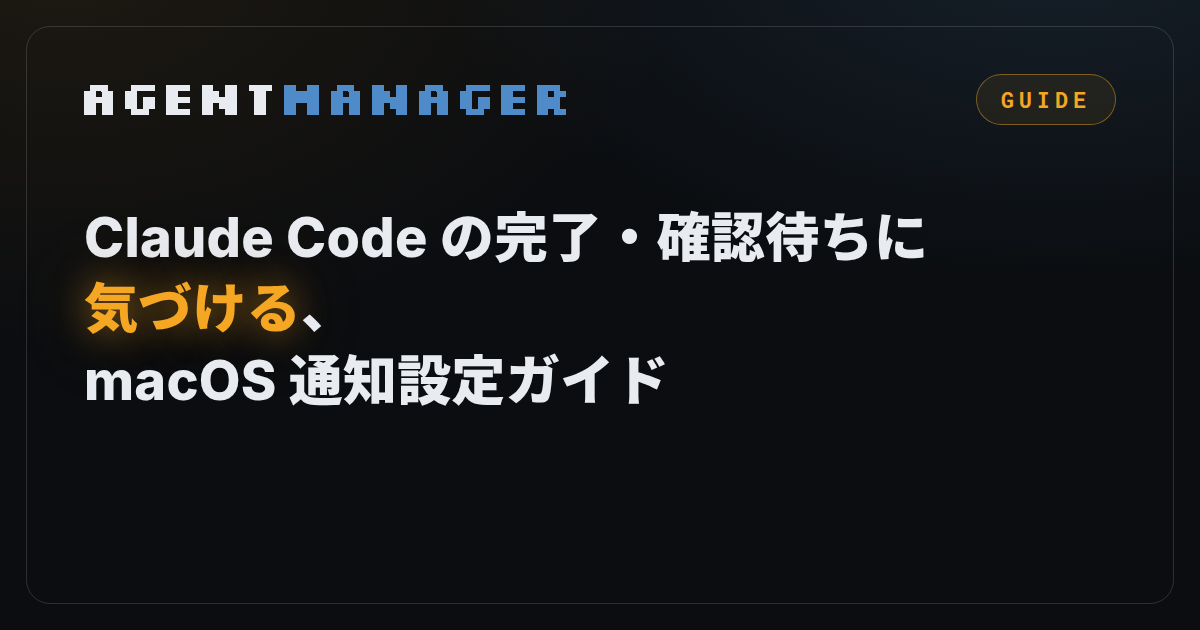
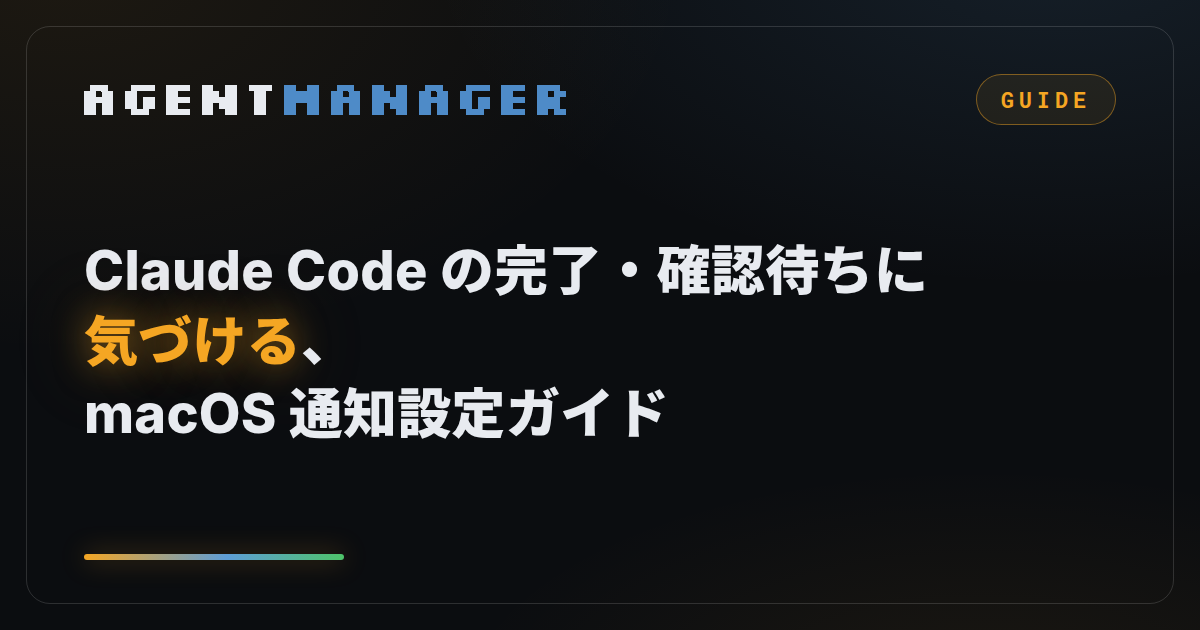
feat: OGP画像のタイトルを上下センター配置にし、下部にアクセントバーを追加
- タイトルをヘッダー行と下端の間で上下中央に配置 (.title-area)
- 下部にセッションランプ3色 (amber/sky/grass) のグラデーションバーと
  淡いアンバーの光を追加し、下側の余白の寂しさを解消
- 6枚を再生成

Claude-Session: https://claude.ai/code/session_013CzTDj4FuM4GGuY2hrSxaA

Changed region(s): [[0.0617, 0.3317, 0.7708, 0.6937], [0.0617, 0.8746, 0.2775, 0.9048]]

diff --git a/tools/og-guide-template.html b/tools/og-guide-template.html
@@ -16,6 +16,7 @@
     background:
       radial-gradient(900px 500px at 88% -10%, rgba(94,158,214,.13), transparent 70%),
       radial-gradient(900px 560px at 5% -6%, rgba(245,166,35,.08), transparent 70%),
+      radial-gradient(760px 340px at 82% 112%, rgba(245,166,35,.07), transparent 70%),
       #0B0D10;
     font-family: 'Inter', 'Noto Sans JP', 'Hiragino Sans', sans-serif;
     color: #E8EBF0;
@@ -38,14 +39,24 @@
     background: rgba(245,166,35,.08);
   }
 
+  .title-area {
+    position: absolute; left: 0; right: 0; top: 90px; bottom: 40px;
+    display: flex; align-items: center;
+  }
   h1 {
-    position: absolute; left: 0; right: 0; top: 128px;
     font-weight: 800; font-size: {{TITLE_SIZE}}px; line-height: 1.32; letter-spacing: .005em;
   }
   :lang(ja) h1 { font-weight: 900; }
   h1 .accent {
     color: #F5A623;
     text-shadow: 0 0 34px rgba(245,166,35,.5), 0 0 80px rgba(245,166,35,.25);
+  }
+  /* 下部の装飾: セッションランプ3色 (amber/sky/grass) のアクセントバー */
+  .accent-bar {
+    position: absolute; left: 0; bottom: 0;
+    width: 260px; height: 6px; border-radius: 3px;
+    background: linear-gradient(90deg, #F5A623, #5E9ED6 55%, #4EC46A);
+    box-shadow: 0 0 26px rgba(245,166,35,.4);
   }
 
 </style>
@@ -57,7 +68,8 @@
       <img class="logo" src="../logo-dark.svg" alt="">
       <div class="kind">GUIDE</div>
     </div>
-    <h1>{{TITLE_HTML}}</h1>
+    <div class="title-area"><h1>{{TITLE_HTML}}</h1></div>
+    <div class="accent-bar"></div>
   </div>
 </body>
 </html>
